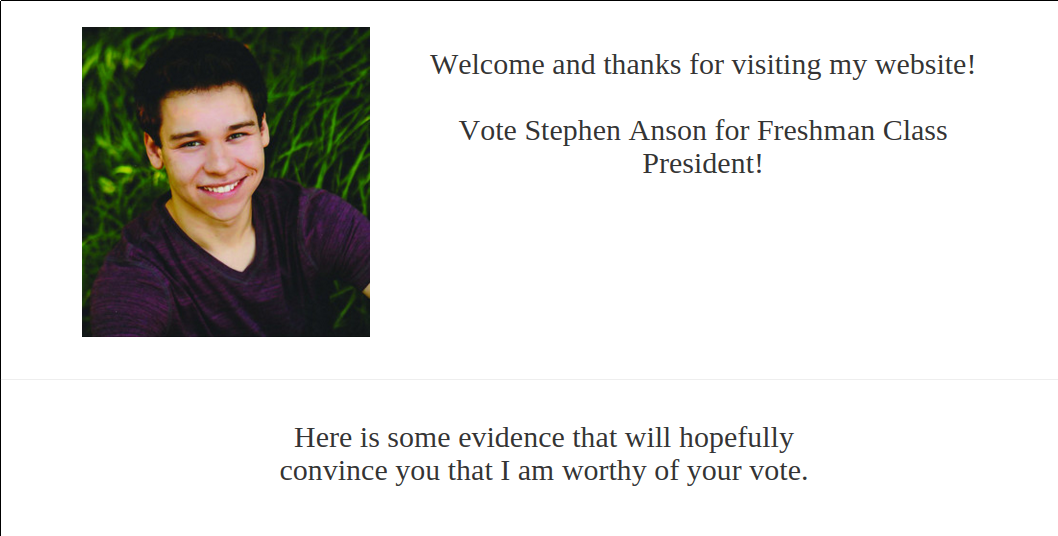
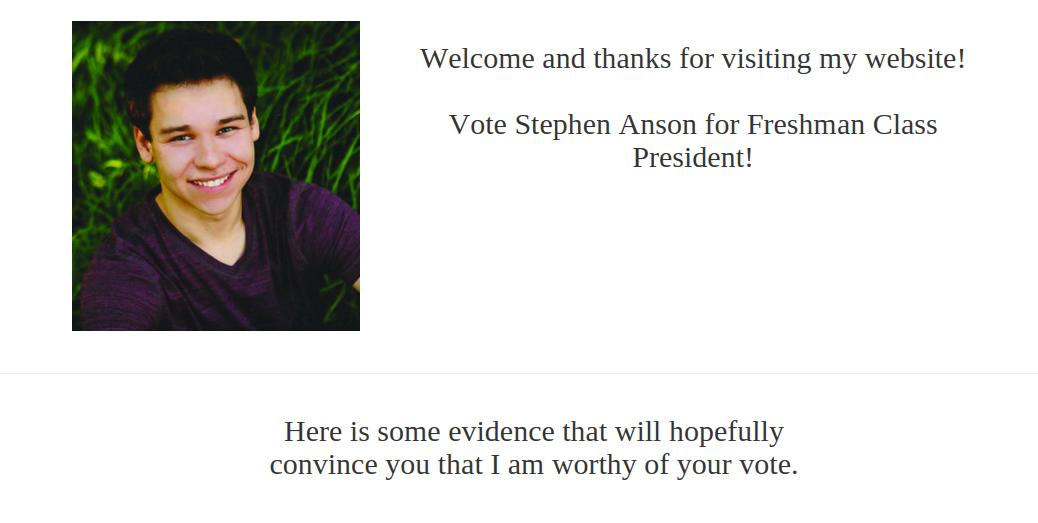
Updates. Going live soon?

diff --git a/html/projects.html b/html/projects.html
@@ -1,12 +1,23 @@
-<div class='row'>
+<div class='row project'>
 	<div class='col-sm-3 col-sm-offset-3'>
 		<a href="#www.theansonmancan.com/" onclick="openiframe('http://www.theansonmancan.com')">
 			<img src='images/theansonmancanImage.png' class='img-responsive projectimage'>
 		</a>
 	</div>
 	<div class='col-sm-3 text-center'>
-		The theansonmancan.com was created for one of Konrad's friends who was running for president. After a weekend of work, theansonmancan.com went live and Anson soon won the presidential race at Cedarville University.
+		The theansonmancan.com was created for one of Konrad's friends who was running for president. After a weekend of work, theansonmancan.com went live and Anson won the presidential race at Cedarville University.
 		<br>
 		<a href="https://github.com/komcrad/TheAnsonManCan" target="_blank">GitHub</a>
+	</div>
+</div>
+<div class='row project'>
+	<div class='col-sm-3 col-sm-offset-3'>
+		<a href="#glados" onclick="load('html/glados.html')">
+			<img src='images/glados.png' class='img-responsive projectimage'>
+		</a>
+	</div>
+	<div class='col-sm-3 text-center'>
+		<p>This is Glados, an internal automated testing tool built for Red Lion Controls.</p>
+		<p>Glados uses Java, JavaScript, CSS, HTML, PHP, MySQL, and Bash shell scripts, on an Ubuntu 14.04 Server</p>
 	</div>
 </div>

diff --git a/html/home.html b/html/home.html
@@ -1,11 +1,13 @@
 <meta HTTP-EQUIV="EXPIRES" CONTENT="0">
 <div class="row margin-bot-3">
 	<div class="col-sm-2 col-sm-offset-3">
-		<img src="images/me.jpg" class="img-responsive" id="campaignPoster">
+		<img src="images/meSmall.jpg" class="img-responsive" id="campaignPoster">
 	</div>
 	<div class="col-sm-4 text-center">
 		<h2>About Konrad</h2>
-		<p>Konrad grew up in the St. Louis area. Half way through high-school he found that he enjoyed programming. After a few small projects, Konrad decided to pursue career as a software engineer. </p>
-		<p>In May 2016 he will earn his Associate in Applied Science for Web Development and Administration from Southwestern Illinois College.</p>
+		<p>Konrad grew up in the St. Louis area. Halfway through high-school he found that he enjoyed programming. After a few small projects, Konrad decided to pursue career in software engineering.</p>
+		<p>In May 2016 he will earn his Associates degree from Southwestern Illinois College.</p>
+		<p><a href="#resume" onclick="openiframe('https://docs.google.com/document/d/1r63IJ8P9LZjzmCoC3UIRY5UVzfU2V8WCWQGED8bG8I4/edit?usp=sharing');">View My Resume</a></p>
+		<p><a href="https://docs.google.com/document/d/1r63IJ8P9LZjzmCoC3UIRY5UVzfU2V8WCWQGED8bG8I4/edit?usp=sharing">Download My Resume</a></p>
 	</div>
 </div>

diff --git a/html/glados.html b/html/glados.html
@@ -1,0 +1,16 @@
+<div class='row project'>
+	<div class='col-sm-8 col-lg-offset-2'>
+		<img src='../images/glados.png' class='img-responsive projectimage' alt='The home page of glados showing a handful of tests'>
+	</div>   
+</div> 
+<div class='row project'>
+	<div class='col-sm-3 col-sm-offset-2 text-center'>
+		<p>In June 2014 Konrad was hired by Red Lion as an intern. Konrad was tasked to learn how to test the cellular products made by the branch in St. Louis, design a system that could test these products, and then write tests for the products.</p>
+	</div>
+	<div class='col-sm-2 text-center'>
+		<p>After being a proof of concept java desktop application, Glados transformed into a web app capable of many useful functions.</p>
+	</div>
+	<div class='col-sm-3 text-center'>
+		<p>Glados tests cellular and network devices through a web GUI and console access over a network. This gives the system great flexibility in testing the device both as a human tester would, and in much more tedious ways that a human simply could not test every release cycle.</p>
+	</div>
+</div>

diff --git a/index.htm b/index.htm
@@ -6,7 +6,7 @@
 		<meta name="viewport" content="width=device-width, initial-scale=1.0">
 		<title>Konrad's Portfolio</title>
 		<script src="js/jquery.js"></script>
-		<script src='js/main.js?v=1.27' type="text/javascript"></script>
+		<script src='js/main.js?v=1.28' type="text/javascript"></script>
 		<!-- Latest compiled and minified CSS -->
 		<link rel="stylesheet" href="https://maxcdn.bootstrapcdn.com/bootstrap/3.3.5/css/bootstrap.min.css">
 		<script src="https://maxcdn.bootstrapcdn.com/bootstrap/3.3.5/js/bootstrap.min.js"></script>		
@@ -23,6 +23,7 @@
 			</div>
 		</div>	
 		<footer>
+			<a href="mailto:konradt95@gmail.com">konradt95@gmail.com</a>
 		</footer>	
 	</body>
 </html>

diff --git a/js/main.js b/js/main.js
@@ -56,7 +56,9 @@ function createCookie(name, value, TOL) {
 }
 
 function openiframe(URL) {
+	$("#swap").empty();
 	$("body").append("<iframe src='"+URL+"' style='position:absolute;width:100vw;height:95vh;top:3.6em;border:1px solid #dadada;'></iframe>");	
+	$('footer').hide();
 }
 
 function getCookieValue(name) {
@@ -88,4 +90,5 @@ function escapeHtml(string) {
 
 function deleteIFrame() {
 	$("iframe").remove();
+	$('footer').show();
 }

diff --git a/css/main.css b/css/main.css
@@ -36,11 +36,13 @@ p {
 footer {
 	text-align: right;
 	width: 100%;
-	background-color: #EBEBEB;
 	padding:2vh;
+	border-top: 1px solid #dadada;
 	position: absolute;
 	bottom: 0;
 	left: 0;
+	background-color: white;
+	z-index:1;
 }
 
 .right {
